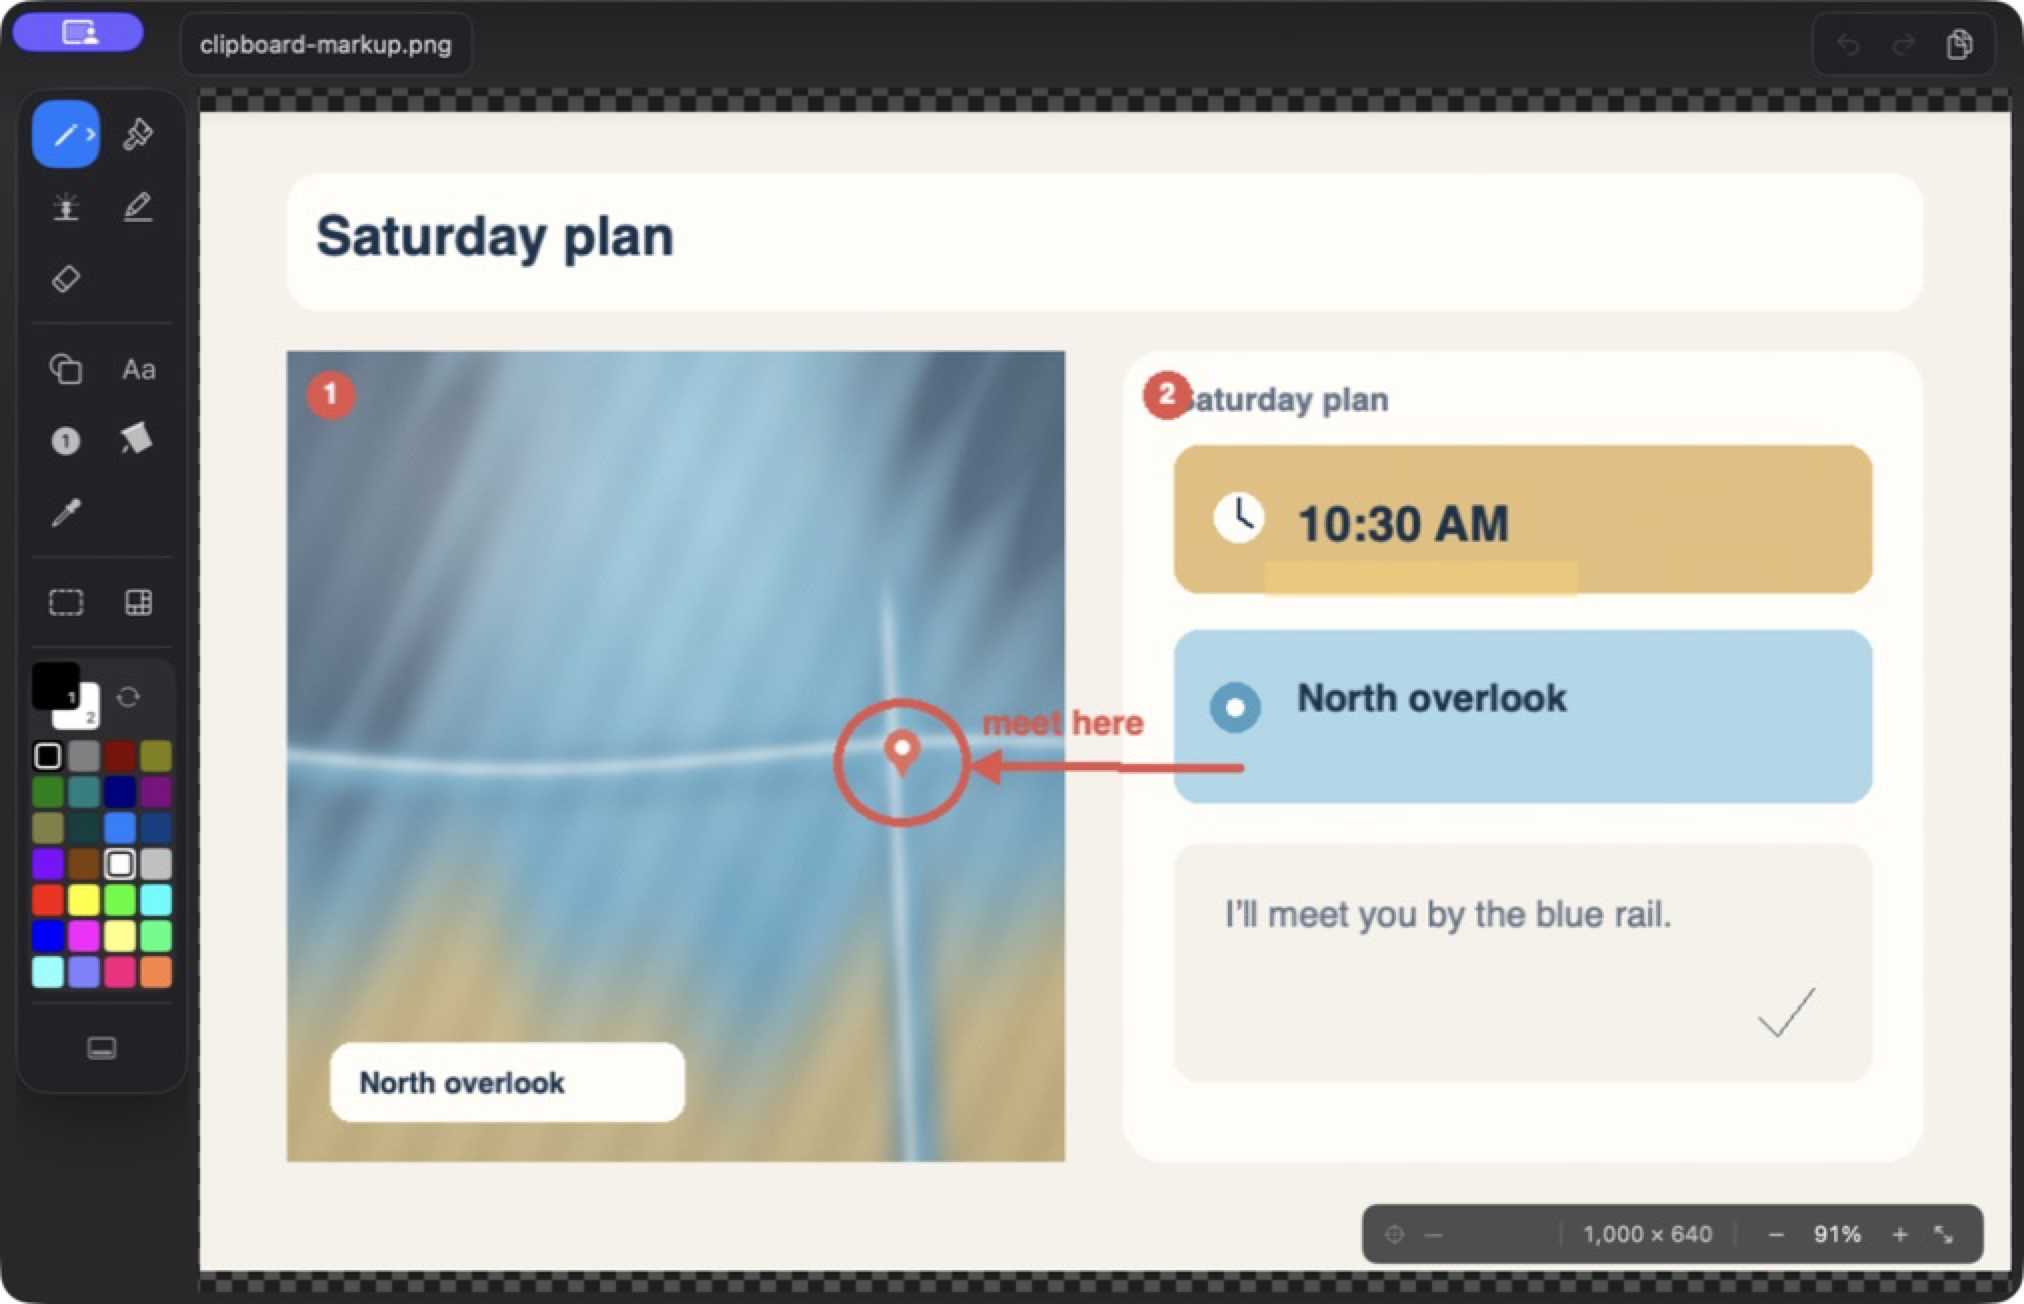
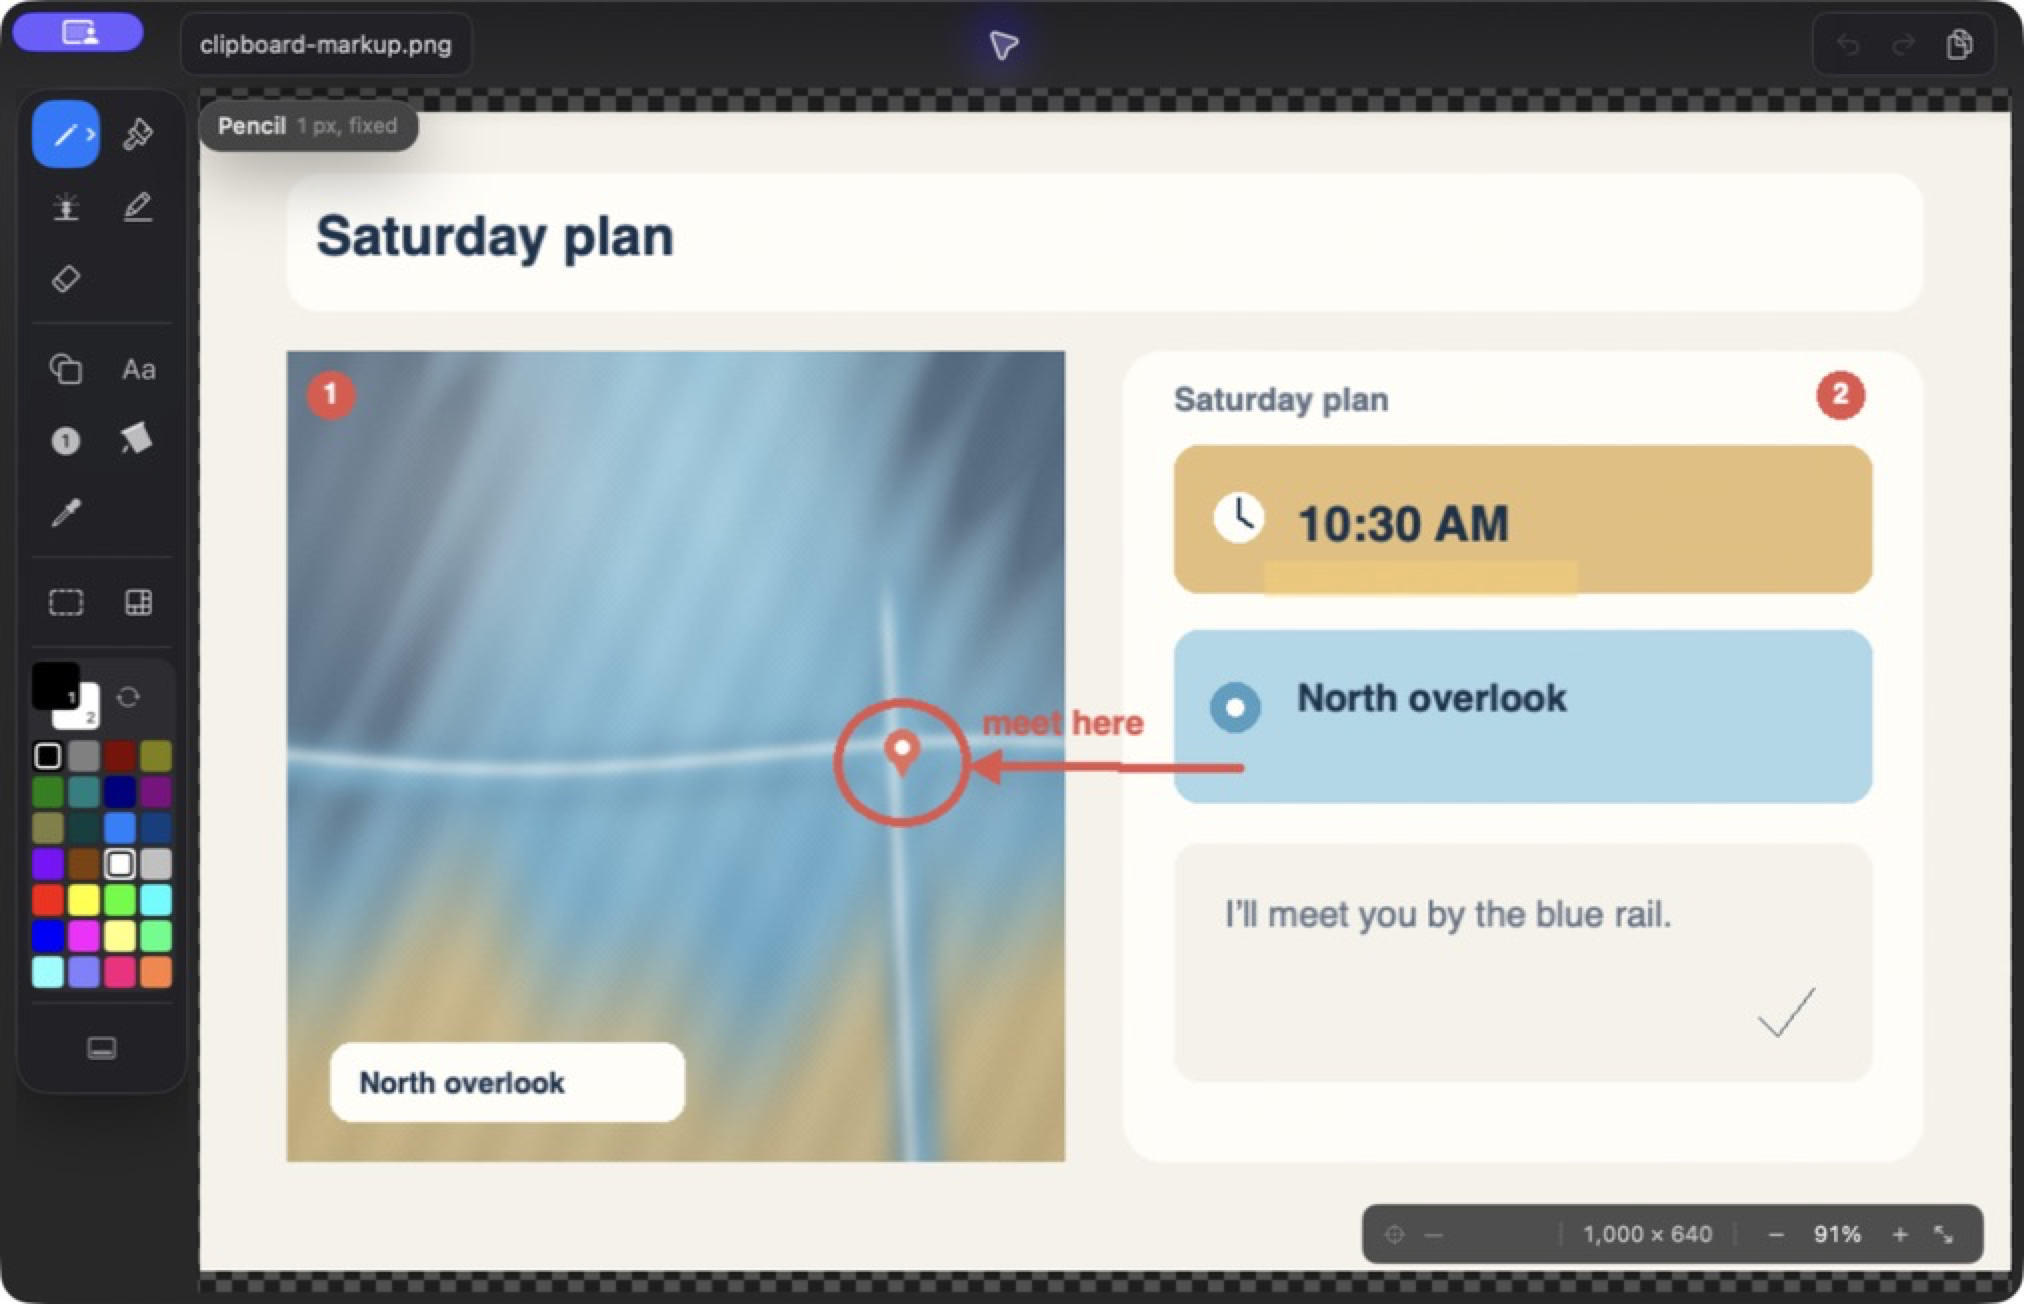
Present ItsPaint as a clipboard editor

diff --git a/Packages/PaintKit/Sources/PaintDemo/SocialPreview.swift b/Packages/PaintKit/Sources/PaintDemo/SocialPreview.swift
@@ -58,7 +58,7 @@ enum SocialPreview {
             into: &canvas
         )
         TextRenderer.draw(
-            "A focused paint app",
+            "Paste, mark up,",
             in: PixelRect(x: 74, y: 286, width: 430, height: 46),
             style: TextRenderer.Style(
                 fontName: "Helvetica",
@@ -68,7 +68,7 @@ enum SocialPreview {
             into: &canvas
         )
         TextRenderer.draw(
-            "for macOS.",
+            "and send.",
             in: PixelRect(x: 74, y: 334, width: 430, height: 46),
             style: TextRenderer.Style(
                 fontName: "Helvetica",

diff --git a/Packages/PaintKit/Sources/PaintDemo/ClipboardMarkupScene.swift b/Packages/PaintKit/Sources/PaintDemo/ClipboardMarkupScene.swift
@@ -204,7 +204,7 @@ enum ClipboardMarkupScene {
         engine.settings.brushSize = 9
         engine.colours.foreground = coral
         engine.beginStroke(at: PixelPoint(x: 72, y: 156))
-        engine.beginStroke(at: PixelPoint(x: 534, y: 156))
+        engine.beginStroke(at: PixelPoint(x: 906, y: 156))
 
         engine.settings.tool = .pencil
         engine.settings.brushSize = 3

diff --git a/README.md b/README.md
@@ -16,11 +16,11 @@ window.
 
 <br>
 
-![ItsPaint showing a feature tour drawn with the app](docs/images/editor-window.png)
+![ItsPaint marking up a pasted event-plan screenshot](docs/images/editor-window.png)
 
-<sub>The artwork in this screenshot was produced by PaintKit, the same engine
-used by the editor. The sample is reproducible with
-<code>swift run --package-path Packages/PaintKit paint-demo out.png</code>.</sub>
+<sub>A pasted plan, highlighted and annotated in ItsPaint. Reproduce the canvas
+with <code>swift run --package-path Packages/PaintKit paint-demo --scene
+clipboard out.png</code>.</sub>
 
 </div>
 
@@ -35,6 +35,19 @@ used by the editor. The sample is reproducible with
   above 100%, pixel grids, and live tool footprints.
 - **Native documents and common exports** with no third-party dependencies,
   accounts, telemetry, or cloud service.
+
+## Quick edits, ready to send
+
+<table>
+  <tr>
+    <td width="50%"><img src="docs/images/quick-sketch-window.png" alt="A simple room layout sketched in ItsPaint"></td>
+    <td width="50%"><img src="docs/images/transparency-window.png" alt="A paper-airplane sticker with its background removed in ItsPaint"></td>
+  </tr>
+  <tr>
+    <td><strong>Sketch the idea.</strong> Draw a layout, route, or quick correction.</td>
+    <td><strong>Keep transparency.</strong> Remove a plain background with Instant Alpha.</td>
+  </tr>
+</table>
 
 ## Install
 
